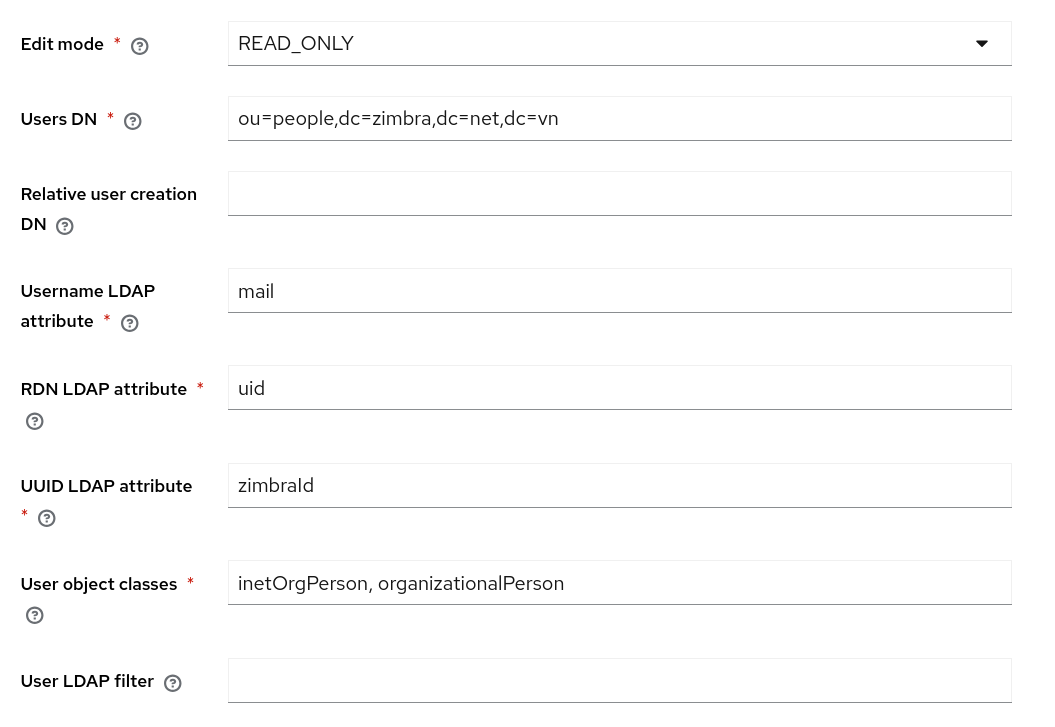
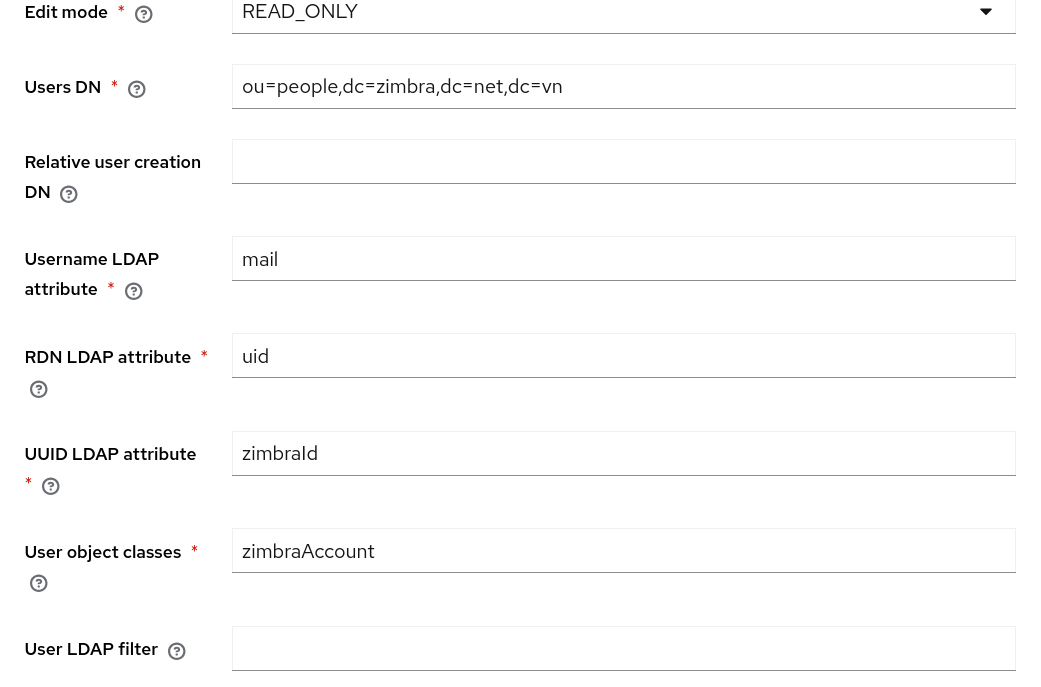
WIP

diff --git a/docs/keycloak.md b/docs/keycloak.md
@@ -15,16 +15,17 @@ wget https://github.com/keycloak/keycloak/releases/download/26.0.0/keycloak-26.0
 tar -xvzf keycloak-26.0.0.tar.gz
 ```
 
+### Create a temporary admin user
+```shell
+cd /opt/keycloak-26.0.0/
+./bin/kc.sh bootstrap-admin user
+```
+
 ### Running the Keycloak server in development mode
 ```shell
 cd /opt/keycloak-26.0.0/
 ./bin/kc.sh start-dev --http-host=your-keycloak-hostname --http-port=8080
 ```
-
-### Create an admin user
-Keycloak has no default admin user. You need to create an admin user before you can start Keycloak.
-* Open `http://your-keycloak-hostname:8080`.
-* Fill in the form with your preferred username and password.
 
 ### Config Keycloak User Federation with Zimbra LDAP
 * Sign in to Keycloak Administration Console as an admin by visiting url `http://your-keycloak-hostname:8080/admin` from your web browser.
